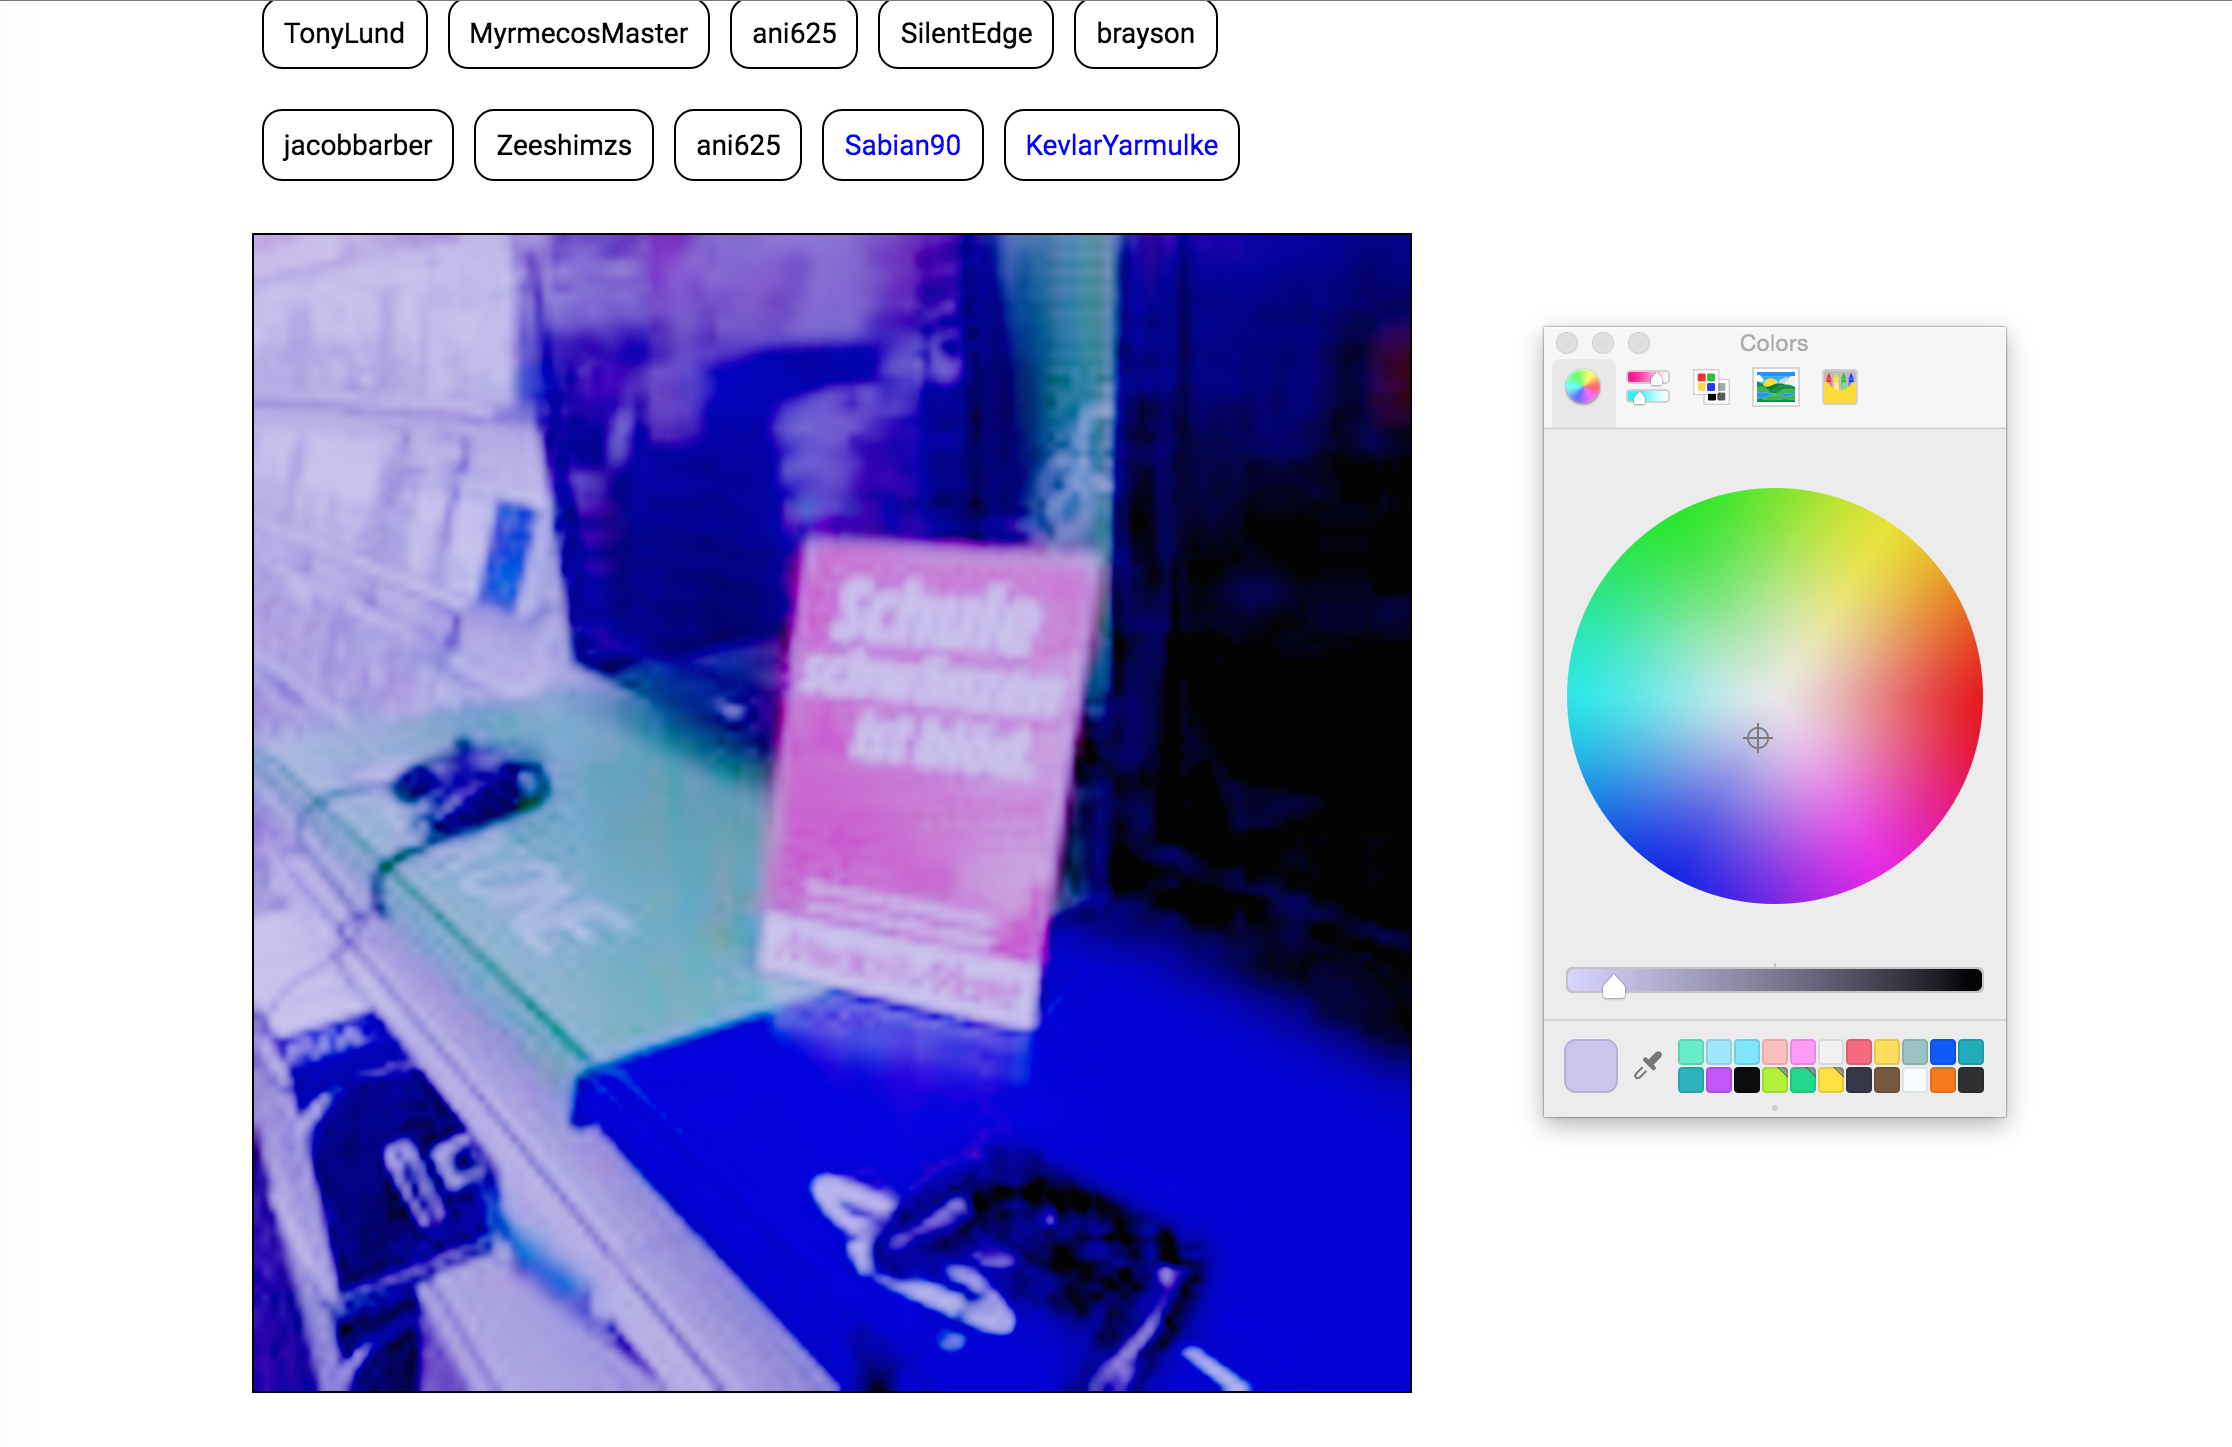
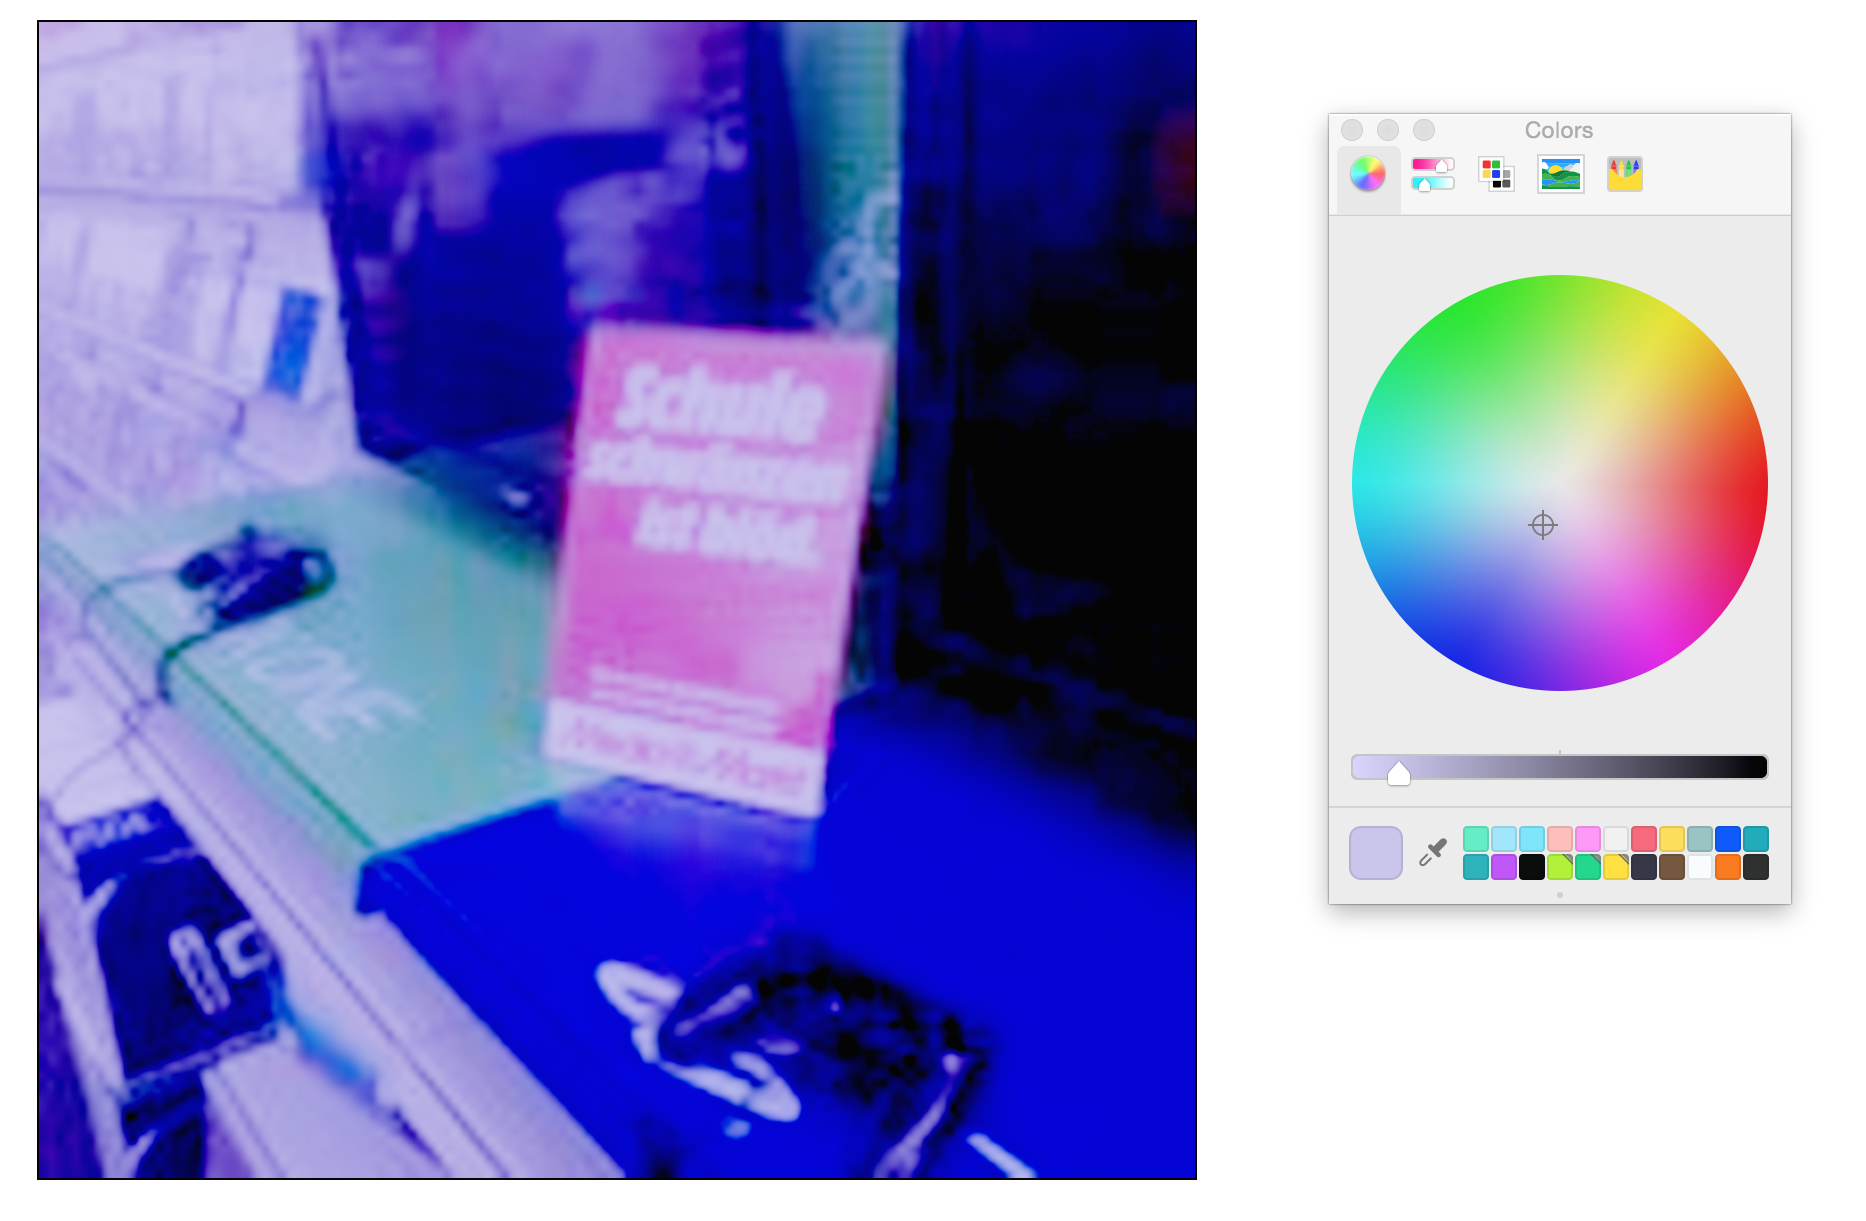
changes

diff --git a/finalProject/final.html b/finalProject/final.html
@@ -9,35 +9,58 @@
 <body>
     <div class="wrapper">
         <nav>
-            <h1><span class="upper">Drawing</span> (Undefined)</h1>
+            <h1>Artists Without Studios</h1>
+            <h2>Mess with Pixelated Redddit Images, Make A Painting in the Canvas Element</h2>
+            <!-- <h1><span class="upper">Drawing</span> (Undefined)</h1> -->
         </nav>
-        <img class="redditHero" src="whatcanudo.png">
+        <img class="redditHero" src="whatcanudo2.png">
         <!-- <img class="paintHero"src="bernievaguepaintingwow.png"> -->
         <div class="subNav clearfix">
-            <p>Click on the input next to brush size, choose a color, click and drag inside the canvas.
-            </p>
+            
             <!-- <div id="reddit">Click here</div> -->
             <div class="nameYourPainting clearfix">
-                <input class="input0 color-pickerBackground" type="color" value="#00BCD6"></input>
+                
             </div>
         </div>
 
         <!-- ////////////////////////////////////////////////////////////////////////////////// -->
-        <div class="imageWrapper clearfix">
+        <!-- <div class="imageWrapper clearfix">
             <div id="emptyFrameCanvas">
                 
             </div>
             <button id="screenshot3" class="clearfix">Take screenshot</button>
-        </div>
+        </div> -->
         <!-- end of imageWrapper -->
 
 
         <div class="imageWrapper clearfix">
+        <p>Click on a title to load Reddit image, play with background color and image filters.
+            </p>
             <div id="emptyFrame" class="level0">
                 <div class="level1">
                 </div>
             </div>
-            <button id="screenshot2" class="clearfix">Take screenshot</button>
+            <!-- end of empty frame -->
+            <div class="sideBar2 clearfix">
+                <input class="input0 color-pickerBackground" type="color" value="#00BCD6"></input>
+                    <ul class="filters bbmButton">
+                        <li class="multiply">Multiply</li>
+                        <li class="screen">Screen</li>
+                        <li class="overlay">Overlay</li>
+                        <li class="darken">Darken</li>
+                        <li class="lighten">Lighten</li>
+                        <li class="color-dodge">Color-dodge</li>
+                        <li class="color-burn">Color-burn</li>
+                        <li class="hard-light">Hardlight</li>
+                        <li class="soft-light">Softlight</li>
+                        <li class="exclusion">Exclusion</li>
+                        <li class="hue">Hue</li>
+                        <li class="saturation">Saturation</li>
+                        <li class="color">Color</li>
+                        <li class="luminosity">Luminosity</li>
+                    </ul>
+                <button id="screenshot2" class="clearfix">Take screenshot</button>
+            </div>
         </div>
         <!-- end of imageWrapper -->
 
@@ -53,7 +76,8 @@
 
 
         <div class="paintingWrapper clearfix">
-            <!-- end of empty frame -->
+            <p>Click on the input next to brush size, choose a color, click and drag inside the canvas.
+            </p>
             <div id="my_parent"></div>
             <div class="sideBar clearfix">
                 <div class="typeHeader clearfix">

diff --git a/finalProject/finalP5.js b/finalProject/finalP5.js
@@ -16,35 +16,43 @@ var brushes = [{
     size: [70, 80]
 }];
 
-$('body').on('click', '.titleSpan', function(e) {
-    $(this).css('color', 'blue');
-
-    var url = $(this).data('url');
-
-    $('.level1').css('background-image', 'url(' + url + ')');
-});
-
-
-// $('body').on('click', '.titleSpan', function(e) {
-//     $(this).css('color', 'blue');
-
-//     var url = $(this).data('url');
-
-//     $('.level1').css('background-image', 'url(' + url + ')');
-// });
-
-
-//by clicking on this, you choose this
 
 $(document).ready(function() {
 
+        $('body').on('click', '.titleSpan', function(e) {
+            $('.titleSpan').removeClass('selectedJson');
 
-  
+            $(this).addClass('selectedJson');
+
+
+            // $(this).css('color', 'blue');
+
+            var url = $(this).data('url');
+
+            $('.level1').css('background-image', 'url(' + url + ')');
+        });
+
+
+         // $('.level1').addClass('color-burn');
+
+        $('.filters').on('click', 'li', function (){
+            var thisFilter = $(this).attr("class");
+
+            // $('li').removeClass('selectedFilter');
+            $(this).toggleClass('selectedFilter');
+
+            $('.level1').toggleClass(thisFilter);
+
+            // $('.titleSpan').click();
+        })
+
+
         $.get('https://www.reddit.com/top.json', handleResponse);
 
         var articles2 = [];
         var paintingTitles = [];
         var images = [];
+
 
         /////  articles is a local variable unless declared 
         function handleResponse(response) {
@@ -56,8 +64,14 @@ $(document).ready(function() {
                 return item.data;
             });
 
-            articles2 = jQuery.grep(articles, function( a ) {
-                return a.thumbnail !== ("");
+            // articles2 = jQuery.grep(articles, function( a ) {
+            //     return a.thumbnail !== ("");
+            // });
+
+             articles2 = jQuery.grep(articles, function( a ) {
+                if ( a.thumbnail.indexOf('http') > -1 ) {
+                    return a.thumbnail;
+                }
             });
            
             articles2.forEach(function(item) {
@@ -73,12 +87,16 @@ $(document).ready(function() {
             console.log(paintingTitles);
             console.log(images);
 
+            // $('.level1').css('background-image', images[0]);
+
             paintingTitles.forEach(function(title, i) {
                 var span = $('<span class="titleSpan">');
                 span.text(title);
                 span.attr('data-url', images[i]);
 
                $('.nameYourPainting').append(span); 
+
+               $('.titleSpan')[0].click();
             });
 
 
@@ -132,8 +150,6 @@ $(document).ready(function() {
         brushIndex = 3;
 
     });
-
-   
 
 });
 // end of doc ready

diff --git a/finalProject/final.css b/finalProject/final.css
@@ -91,7 +91,7 @@ nav {
 }
 
 .redditHero {
-    width: 50%;
+    width: 90%;
 }
 
 .paintHero {
@@ -107,15 +107,18 @@ nav {
 
 h1 {
     font-family: 'Archivo Black', sans-serif;
-    font-size: 2em;
+    font-size: 2.5em;
     font-weight: 200;
-    padding: 1rem;
+    padding: 1rem 0 .75rem 1rem;
     margin-top: 1rem;
     // color: #e0e0e0;
     color: black;
     // color: white;
     // text-align: center;
 }
+ h2 {
+ 	padding: 0 0 1rem 1rem;
+ }
 
 // h1 .upper {
 // 	// text-transform: uppercase;
@@ -129,6 +132,7 @@ p {
 
 .nameYourPainting {
     width: 580px;
+    width: 80%;
 }
 
 // .nameYourPainting .titleSpan {
@@ -140,7 +144,7 @@ p {
 // 	cursor: pointer;
 // 	display: inline-block;
 // }
-.nameYourPainting .titleSpan {
+.nameYourPainting .titleSpan, .bbmButton {
     user-select: none;
     -webkit-user-select: none;
     cursor: pointer;
@@ -152,6 +156,11 @@ p {
     border-radius: 10px;
     display: inline-block;
 }
+
+.selectedJson, .selectedFilter {
+	color: blue;
+}
+
 
 .leftsize,
 .rightcolor {
@@ -170,7 +179,7 @@ p {
     float left;
 }
 
-.sideBar {
+.sideBar, .sideBar2 {
     margin: 1em;
     float: left;
     // border: 1px black solid;
@@ -267,16 +276,21 @@ input {
     background-size: cover;
     // padding: 28em;
     background-color: #00bcd6;
-    background-blend-mode: color-burn;
+    // background-blend-mode: color-burn;
+}
+
+.sideBar2 {
+	float: left;
+	width: 300px;
 }
 
 .backgroundBlendColor {
     background-color: #D0B0FB;
 }
 
-.bbmColorBurn {
-    background-blend-mode: color-burn;
-}
+// .bbmColorBurn {
+//     background-blend-mode: color-burn;
+// }
 
 .backgroundBlur {
     -webkit-filter: blur(15px);
@@ -284,3 +298,18 @@ input {
     filter: blur(15px);
 }
 
+.multiply 	 { background-blend-mode: multiply;    }
+.screen 	 { background-blend-mode: screen; 	   } 
+.overlay 	 { background-blend-mode: overlay;     }
+.darken 	 { background-blend-mode: darken;      }
+.lighten 	 { background-blend-mode: lighten;     }
+.color-dodge { background-blend-mode: color-dodge; }
+.color-burn  { background-blend-mode: color-burn;  }
+.hard-light  { background-blend-mode: hard-light;  }
+.soft-light  { background-blend-mode: soft-light;  }
+.difference  { background-blend-mode: difference;  }
+.exclusion   { background-blend-mode: exclusion;   }
+.hue 		 { background-blend-mode: hue;   	   }
+.saturation  { background-blend-mode: saturation;  }
+.color 		 { background-blend-mode: color;       }
+.luminosity  { background-blend-mode: luminosity;  }
